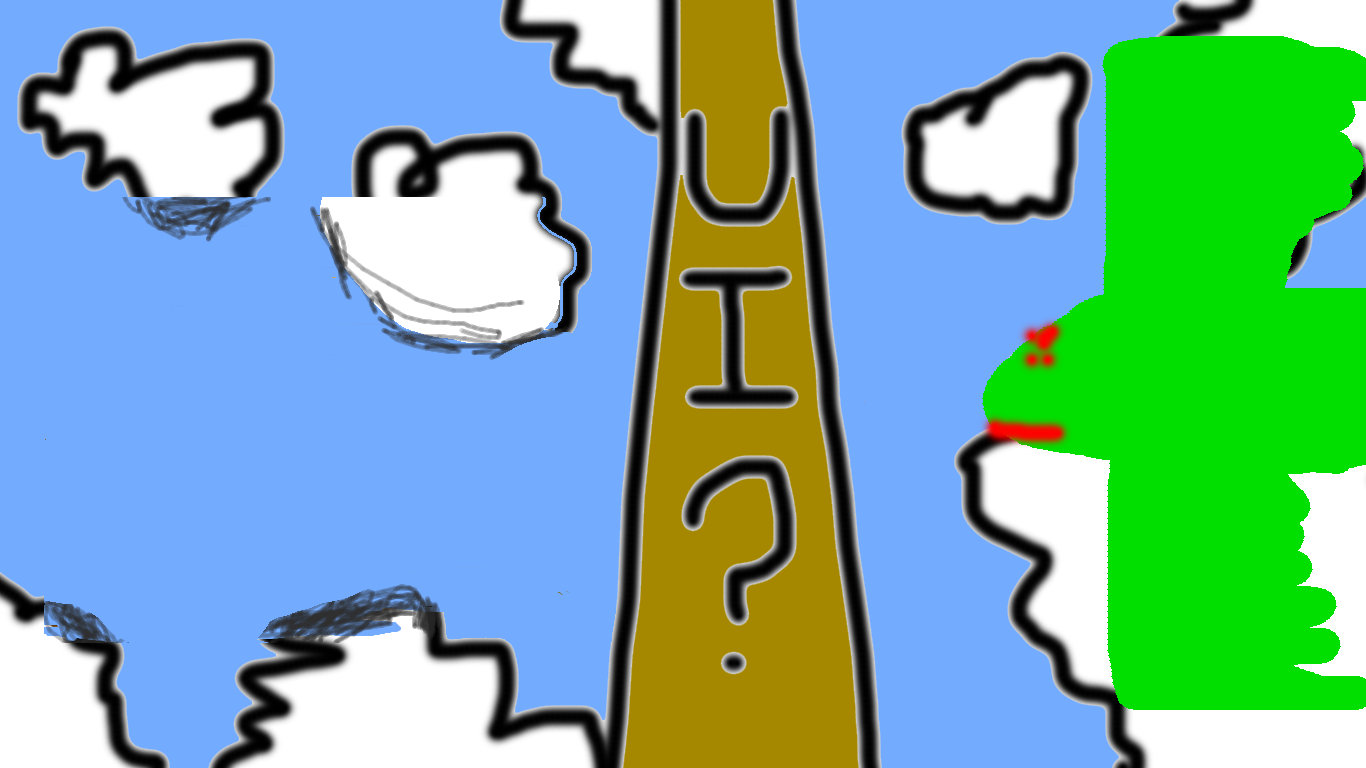
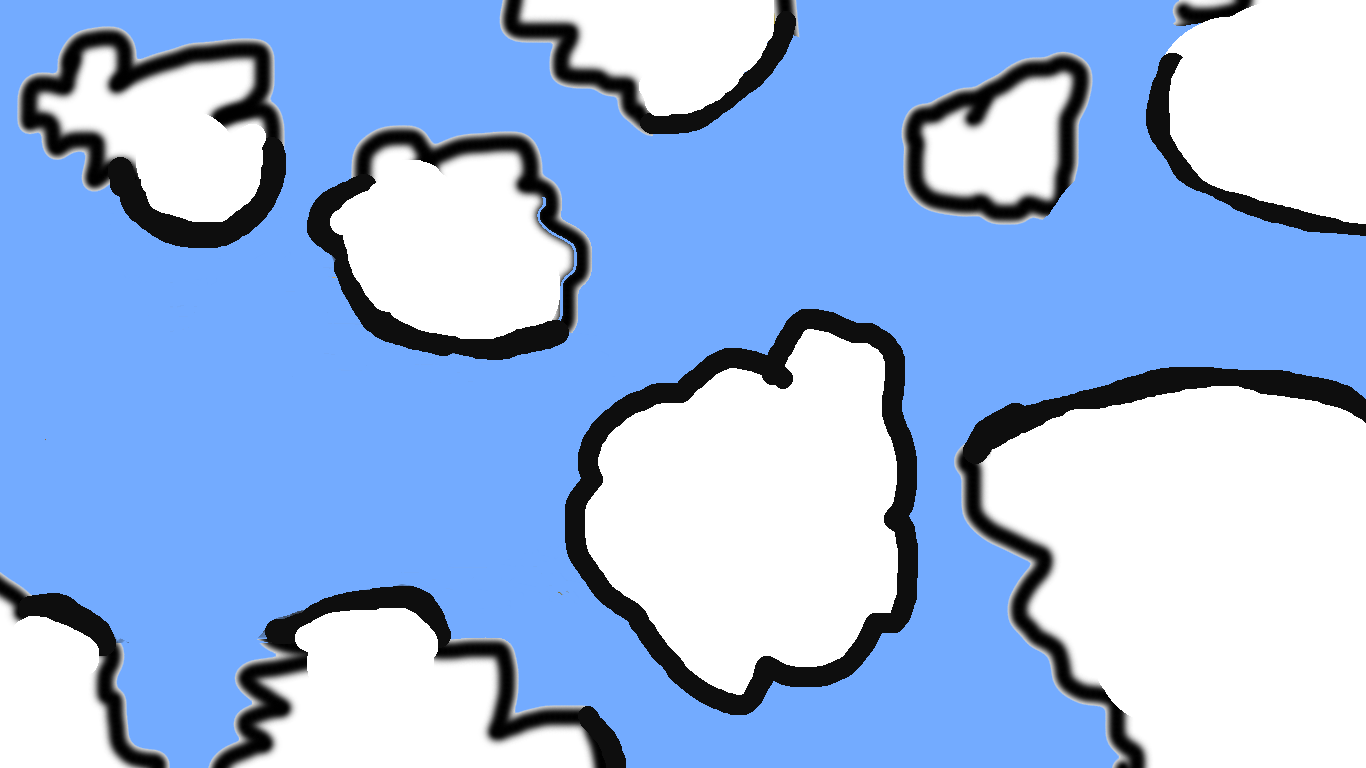
made a lined version of the cannon and changed the testbg_big to a more beautiful version.

diff --git a/Luftschiff/Luftschiff/Code/Initializer.cs b/Luftschiff/Luftschiff/Code/Initializer.cs
@@ -56,7 +56,7 @@ namespace Luftschiff {
 
             //special room stuff
             Globals.EngineTexture = new Texture("Assets/Graphics/Elena/RoomSpecials/engine.png");
-            Globals.GunTexture = new Texture("Assets/Graphics/Elena/RoomSpecials/kanone.png");
+            Globals.GunTexture = new Texture("Assets/Graphics/Elena/RoomSpecials/kanonelined.png");
             Globals.HospitalTexture = new Texture("Assets/Graphics/Elena/RoomSpecials/medbay.png");
 
             //projectiles
